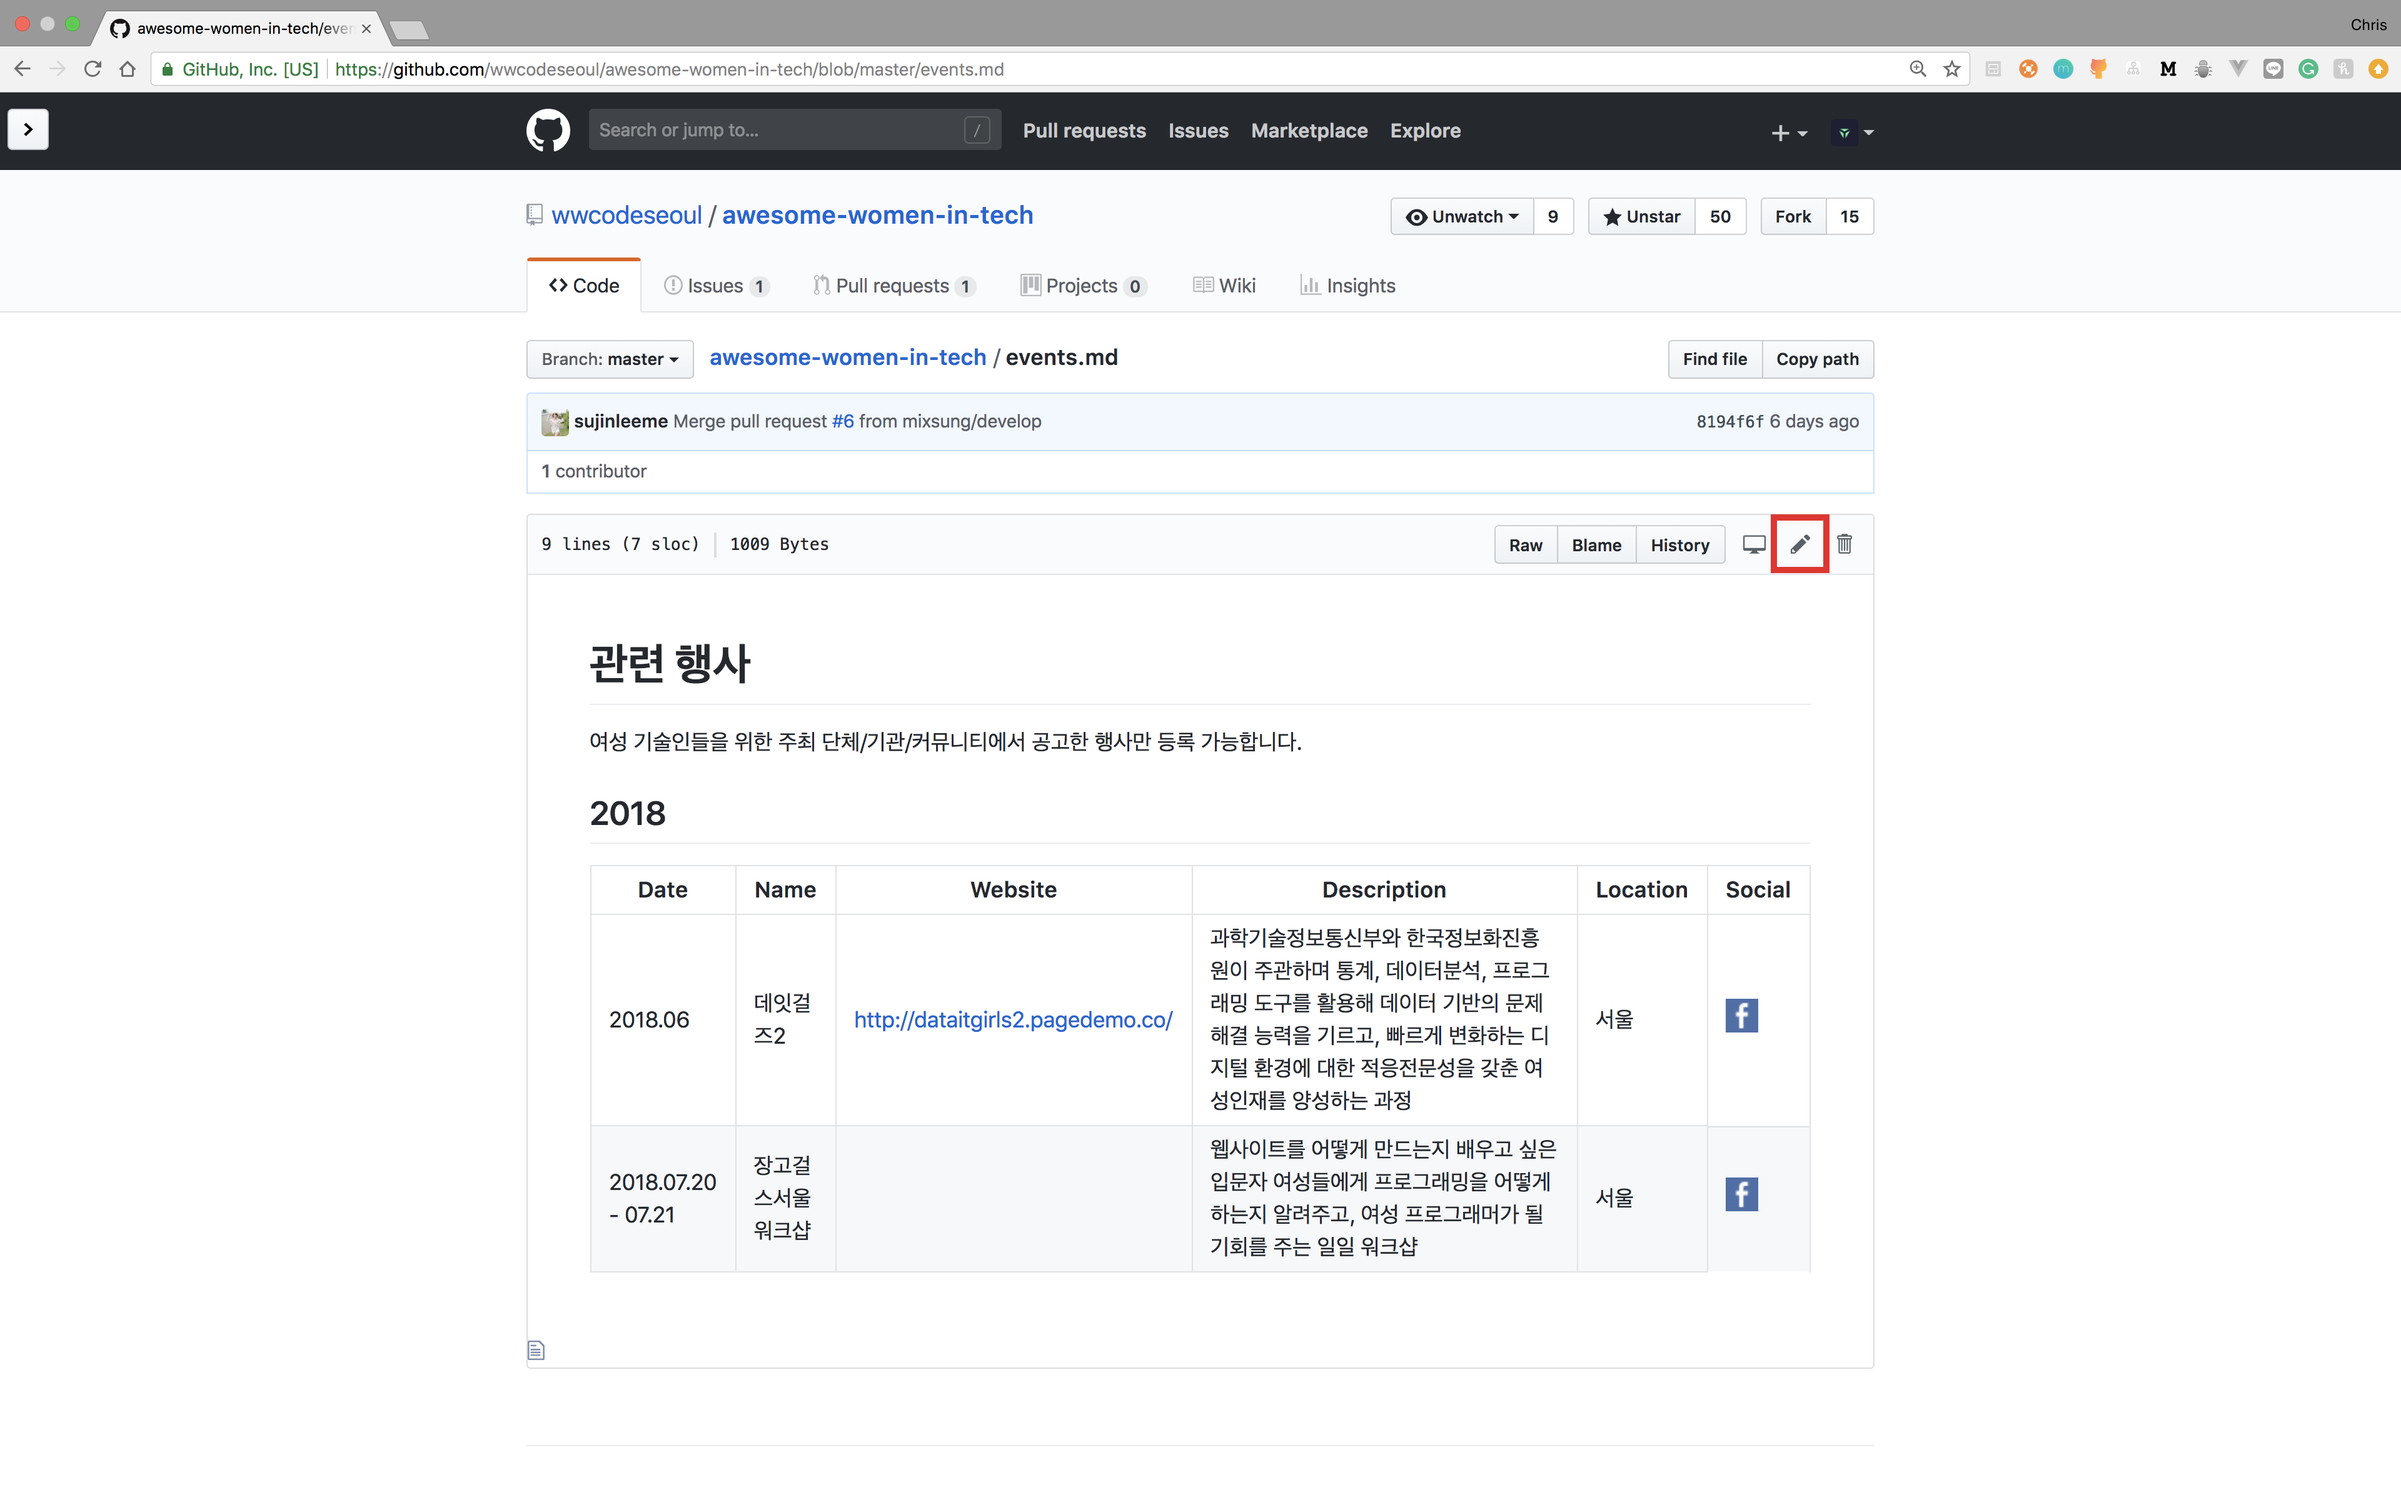
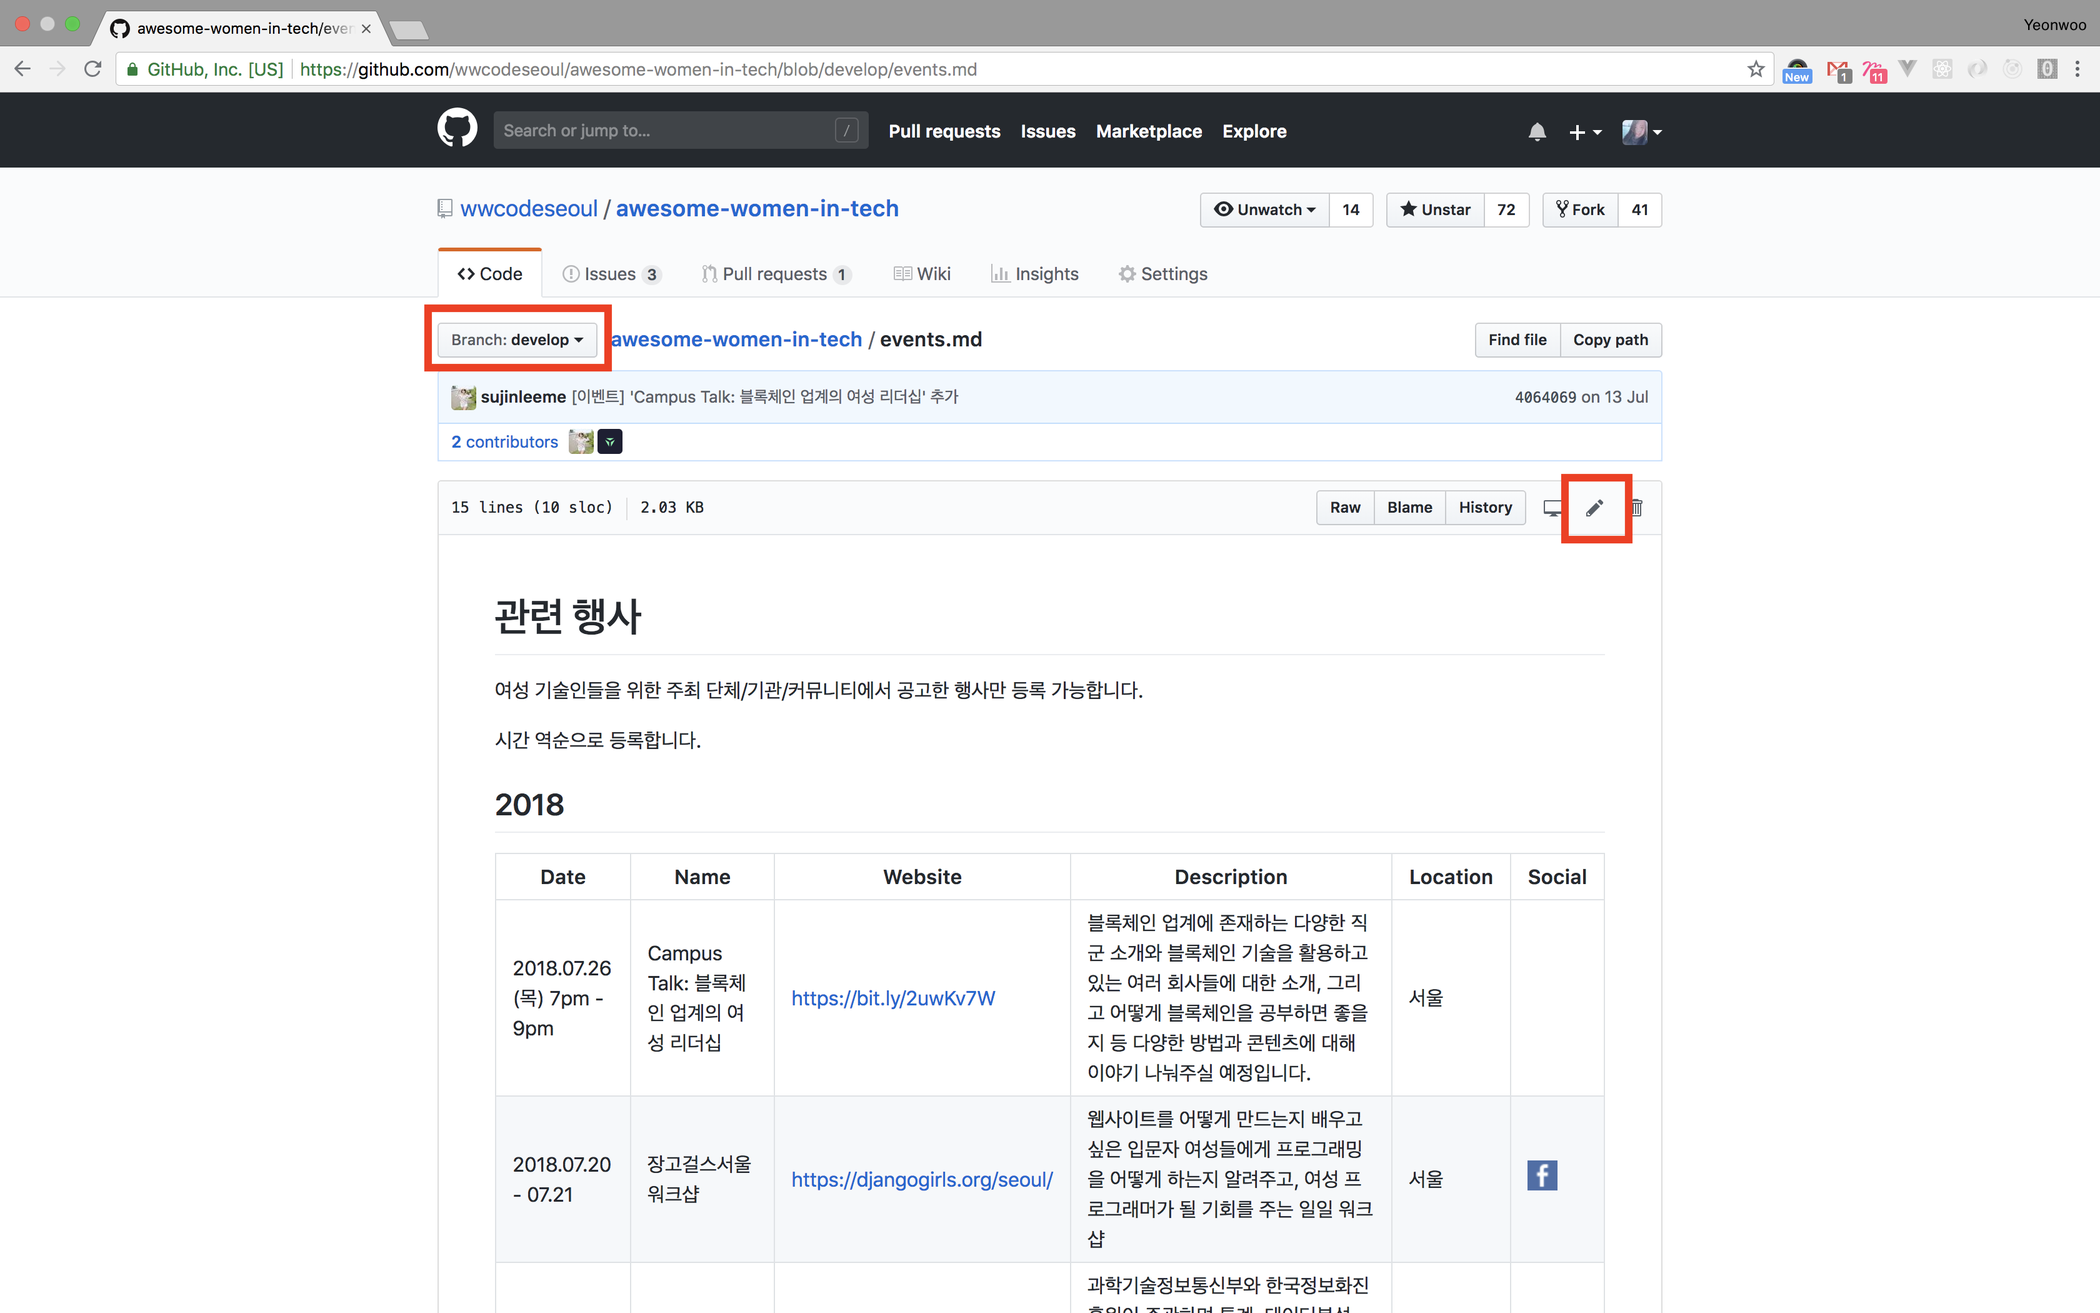
Edit document contents

diff --git a/.github/PULL_REQUEST_TEMPLATE.md b/.github/PULL_REQUEST_TEMPLATE.md
@@ -1,0 +1,28 @@
+<!--
+🎉 Thanks for submitting a pull request! 
+
+❗ Please check below before create new pull request ❗
+- A similar PR may submitted. Please search the PR before create one.
+- Please make sure that the base branch is not the **master** branch.
+ -->
+
+### Description
+
+<!-- Please include a summary of the change and which issue is fixed. Please also include relevant motivation and context. List any dependencies that are required for this change. -->
+
+### Related issue
+
+<!-- Please write related issue number ex)#12 -->
+Fixes # (issues)
+
+### Type of change
+
+- [ ] Bug fix (non-breaking change which fixes an issue)
+- [ ] New feature (non-breaking change which adds functionality)
+- [ ] Breaking change (fix or feature that would cause existing functionality to not work as expected)
+- [ ] This change requires a documentation update
+
+### Todo
+
+- [ ] step 1
+- [ ] step 2

diff --git a/.github/contribution_guide.md b/.github/contribution_guide.md
@@ -9,7 +9,7 @@
 
 ## 1. 깃허브 웹페이지상에서 수정하고 풀 리퀘스트 날리기
 
-1.  수정하고자하는 문서에서 오른쪽 상단에 수정(🖊) 버튼을 누릅니다.
+1.  수정하고자하는 문서에서 브랜치를 *develop* 으로 선택하고 오른쪽 상단에 수정(🖊) 버튼을 누릅니다.
 
 ![](icons/contribution_screenshot_1.png)
 
@@ -21,7 +21,7 @@
 
 ![](icons/contribution_screenshot_3.png)
 
-4.  수정사항을 다시한번 확인한 뒤 `Create pull request` 버튼을 누릅니다.
+4.  수정사항을 다시한번 확인한 뒤 base 브랜치가 *develop* 인지 확인하고 `Create pull request` 버튼을 누릅니다.
 
 ![](icons/contribution_screenshot_4.png)
 

diff --git a/README.md b/README.md
@@ -13,7 +13,7 @@
 * [여성 기술 커뮤니티 및 지원 단체](organization.md)
 
 # 기여하기
-* 인명 등록 시, 풀 리퀘스트를 보내주세요. [기여방법 안내서](contribution_guide.md)
+* 인명 등록 시, 풀 리퀘스트를 보내주세요. [기여방법 안내서](.github/contribution_guide.md)
 * 새로 추가하거나 제안하고 싶은 목차가 있다면 이슈에 등록해주세요. 
-* [커뮤니티 행동강령](code_of_conduct.md)을 준수해주세요.
+* [커뮤니티 행동강령](.github/CODE_OF_CONDUCT.md)을 준수해주세요.
 

diff --git a/.github/ISSUE_TEMPLATE/bug-report.md b/.github/ISSUE_TEMPLATE/bug-report.md
@@ -11,7 +11,8 @@ Thank you for you contribution!
 Please fill out the form below to catch the 🐛
 -->
 
-## 📋 Describe the bug
+## 📋 Failure Information
+
 
 ### Current behavior
 <!-- A clear and concise description of what the bug is. -->
@@ -30,6 +31,9 @@ Please fill out the form below to catch the 🐛
 ### Screenshots
 <!-- If applicable, add screenshots to help explain your problem.
 Or a video link also will be help -->
+
+### Failure Logs
+Please include any relevant log snippets or files here.
 
 ## 🛠Test Environment
 
